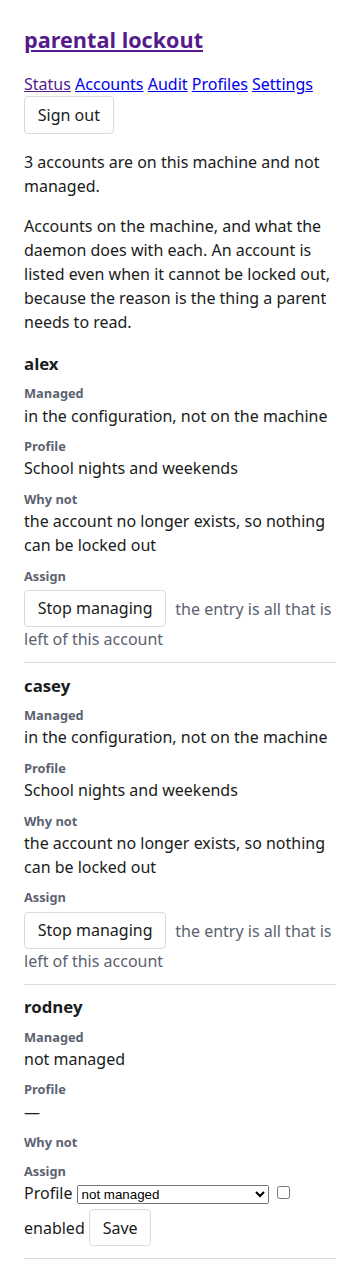
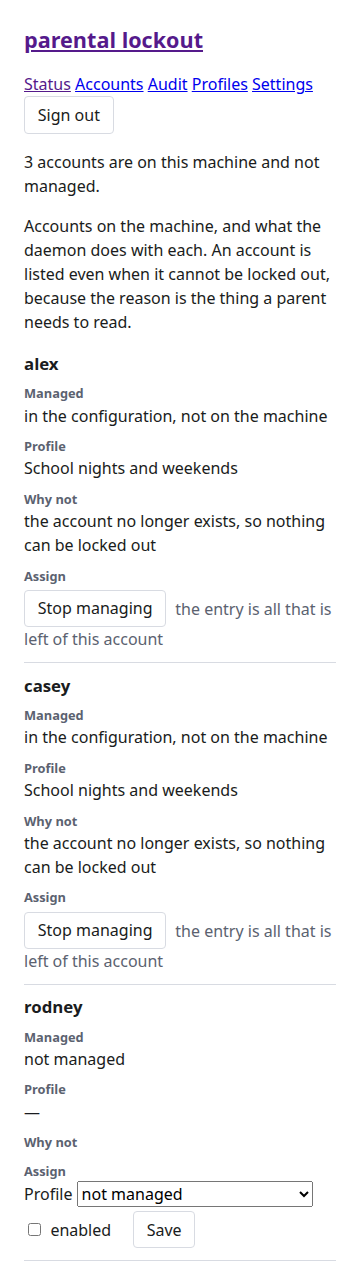
fix(web): re-photograph the nine frames against the fixed stylesheet
`manifest.py check` -- a step of `make verify` -- now refuses this tree: every page's pinned
source revision moved when the stylesheet changed. So the frames are taken again, from a tree
that already refuses the old look. That order is the point: the guard lands first (D-0013),
then the frames, so a re-record cannot certify a second defect in the same breath -- and #202
sat unnoticed inside these nine files for nine commits precisely because the frames were the
one piece of evidence nobody ever re-took.

Six frames change; `lock.png`, `testlock.png` and `users-no-profiles.png` come back
byte-identical. Nothing here claims to explain frame by frame why a page's pixels moved -- a
font change re-metrics the page around a control as well as the control -- so what is committed
with them is the per-page census, printed at both viewports on every run, which is what a reader
can check the manifest against.

README: the three refusals join the table, with the section on why the criterion is a
computed-style read and not a grep -- a `:has()` rule an engine drops leaves the page exactly as
it was, every string in the stylesheet still findable. The self-test count in that file said 29
rules; it is 43.

Decision: D-0014
Refs: #202

diff --git a/testing/capture/README.md b/testing/capture/README.md
@@ -65,12 +65,12 @@ one page needs live in `cdp.py`.
 
 | driver | refuses when |
 |---|---|
-| `pages.py` | a page answers a different URL than it was sent to; **a table page** has no table or no cells (an empty fixture fits at any width); **a form page** has no POST form or no fields (the sibling check — a `/settings` that rendered only its navigation also fits at 360 px, and dropping the check instead would have committed that as evidence it fits); any cell lacks `data-label`; **the page overflows its viewport** — measured at every width in `WIDTHS`, refused per page per viewport, and before the PNG is written; **the audit page** carries no seeded `platform.error` row, or its hardest unbreakable token is under 60 characters (#140: a page that could not have overflowed is not width evidence, and a page whose pressure came from the machine rather than the fixture is not evidence about the stylesheet) |
-| `lock.py` | the dashboard has no `lock-now` form, no submit button, no CSRF token with a value, or a method that is not `post`; the click does not navigate; the result page has no banner sentence or no session rows; a cell lacks `data-label`; a session row has no Result cell; **a row claims the lock happened while its own Result cell says otherwise** (#109); the gated clause is absent, meaning the self-session note never rendered; **the Detail cell's sentence runs into that note** (#108); the note appears in no cell at all, so the #108 rule would have examined nothing; **the click wrote no `lock.requested` line**; the page overflows |
-| `testlock.py` | the same form and click refusals for `test-lock`; the page does not say *Nothing was locked*; fewer than two tables or no backend rows; the #108 seam rule and the same empty-rule guard; **the audit trail holds anything but `lock.probed`**; the page overflows |
+| `pages.py` | a page answers a different URL than it was sent to; **a table page** has no table or no cells (an empty fixture fits at any width); **a form page** has no POST form or no fields (the sibling check — a `/settings` that rendered only its navigation also fits at 360 px, and dropping the check instead would have committed that as evidence it fits); any cell lacks `data-label`; **the page overflows its viewport** — measured at every width in `WIDTHS`, refused per page per viewport, and before the PNG is written; **the audit page** carries no seeded `platform.error` row, or its hardest unbreakable token is under 60 characters (#140: a page that could not have overflowed is not width evidence, and a page whose pressure came from the machine rather than the fixture is not evidence about the stylesheet); **a control disagrees with the page it sits on** — set in the browser's own typeface rather than the page's, sized by no `max-width` at all or by a different one from the other fields on that page, or a radio or checkbox whose label the stylesheet left inline so the box can wrap away from the words that name it (#202; every page, both viewports, before the PNG is written) |
+| `lock.py` | the dashboard has no `lock-now` form, no submit button, no CSRF token with a value, or a method that is not `post`; the click does not navigate; the result page has no banner sentence or no session rows; a cell lacks `data-label`; a session row has no Result cell; **a row claims the lock happened while its own Result cell says otherwise** (#109); the gated clause is absent, meaning the self-session note never rendered; **the Detail cell's sentence runs into that note** (#108); the note appears in no cell at all, so the #108 rule would have examined nothing; **the click wrote no `lock.requested` line**; the page overflows; the three control claims (#202), which on this page are shown exactly one control — the chrome's Sign-out button — and report it as `controls=1 typed=0 groups=0` on the transcript rather than passing in silence |
+| `testlock.py` | the same form and click refusals for `test-lock`; the page does not say *Nothing was locked*; fewer than two tables or no backend rows; the #108 seam rule and the same empty-rule guard; **the audit trail holds anything but `lock.probed`**; the page overflows; the three control claims (#202), vacuous here for the same reason — the transport radios those rules are about are on `/settings`, a `pages.py` frame |
 | all three | the daemon the fixture started is not the process still serving its port; something already answers the DevTools endpoint before the browser is launched; `--out` resolves outside the repository, names a file, or names a directory holding PNGs without `--overwrite`; an unrecognised flag |
 
-Three of those deserve explaining, because each was a hole found by attacking this code rather
+Four of those deserve explaining, because each was a hole found by attacking this code rather
 than by writing it.
 
 **The trail is an allowlist, and it counts only this run's lines.** The probe page's second claim
@@ -84,6 +84,28 @@ twice and a membership test against the whole file passes on the previous run's 
 **The overflow verdict is computed before the write.** A photograph of an overflowing page is the
 artifact the criterion refuses; writing it and then exiting 1 leaves wrong evidence on disk under
 the right filename.
+
+**The control census reads what the browser computed, because #202 was invisible to everything
+else.** Every control on every page was rendering in Arial 13.33 px beside the page's own 16 px
+system-ui, and `/settings` was sizing its fields three ways at once -- 65 px, 163 px, 185 px. No Go
+test can see that: the mutants target `.go` and `.tmpl`, and no `_test.go` renders a page. So
+`CONTROLS_JS` rides on the one measurement every driver already takes and three refusals read the
+computed style -- each visible control's font against `document.body`'s, the `max-width` of
+everything you can type into, and the `display` of every label wrapping a toggle.
+
+The last of those is the reason a grep would not have done. The stylesheet reaches a choice group
+with `:has()`, and a selector an engine has never heard of is discarded without a word: the page
+renders exactly as it did before the rule existed and every string in the file is still there to be
+found. Computed `display` is the only thing in the browser that says whether the rule applied. The
+`max-width` read has the same shape in the other direction: a field reporting `none` is sitting at
+the user-agent's own twenty characters, so a page where every field agrees on nothing is refused as
+well as a page where they disagree -- deleting the width rule entirely makes all the values match.
+
+The read passes vacuously where there is nothing to read, and says so: the verdict page and the
+probe page each carry one control, the chrome's Sign-out button, so their lines print
+`controls=1 typed=0 groups=0`. That census on the transcript is the point -- a guard that examined
+nothing must not report success silently, which is the same rule the #108 check follows when it
+prints how many Detail cells carried the note.
 
 **The daemon and the browser must be the ones the fixture started.** A port answering is not
 evidence about who is answering it. With a second `plock serve` already holding the fixture's
@@ -502,8 +524,8 @@ with a fake that reports `innerWidth=360` at a 1024 px request.
 
 ## The self-test, because nothing else in this repository can read these files
 
-`./pages.py --self-test` runs 29 rules about what a refusal does. It starts no browser, spawns no
-daemon, writes no file, and costs **0.036 s** for its twenty-nine rules, so `make verify` runs it
+`./pages.py --self-test` runs 43 rules about what a refusal does. It starts no browser, spawns no
+daemon, writes no file, and costs **0.03 s** for all of them, so `make verify` runs it
 beside the two mutation
 self-tests. What it cannot do is reach below its own fakes — see the two body guttings above, which
 only a real capture sees.

diff --git a/DECISIONS.md b/DECISIONS.md
@@ -109,3 +109,36 @@ kept; nothing here renumbers anything.
   `require_choice_groups`, `census_line`), testing/capture/pages.py (the splice, the three calls, the
   transcript, seven self-test rules), testing/capture/lock.py, testing/capture/testlock.py,
   internal/web/narrow_width_test.go, DECISIONS.md
+
+## D-0014 · The nine frames are re-photographed in the commit that changes what they show
+
+- Question: the stylesheet fix changes what six of the nine committed 360 px frames depict, and
+  `manifest.py check` -- a step of `make verify` -- now refuses the tree because every page's pinned
+  source revision moved. Does this branch ship the stylesheet with the old evidence under it, or
+  re-photograph the artifacts?
+- Options: re-record all nine here and commit the new bytes beside the rule that refuses the old ones
+  | ship the stylesheet alone and leave the frames for a later unit | re-record only the six whose
+  pixels moved and leave the other three pinned to their old sources
+- Chose: re-record all nine here and commit the new bytes beside the rule that refuses the old ones
+- Why: the third option is not a state the gate can hold -- `check` walks every entry and every
+  page's sources have moved, so a half-recorded manifest is a refusal, not a shortcut, and a manifest
+  that certifies two different stylesheets under one `captured_at` records nothing. The second is the
+  state this repository spent three issues escaping: D-0010 measured that the nine committed frames
+  did not reproduce, and the reason #202 stayed open for nine commits is that the only artifacts which
+  could show the wrong font were the ones nobody re-photographs. What the first option costs, stated
+  rather than glossed: nine committed bytes are invalidated as a side effect of a CSS change, and the
+  frames are the very evidence that failed to catch the defect -- so the same act that makes the
+  criterion's evidence agree with the fix is also the act that would have hidden a second defect in
+  the same commit, which is why the guard landed first (D-0013) and the frames were taken from a tree
+  that already refused the old look. Two more things the record owes: `head` in the new manifest names
+  the checkpoint commit rather than the commit carrying the frames, because a capture cannot pin its
+  own commit -- already true of every manifest on main; and three of the nine come back byte-identical
+  (`lock.png`, `testlock.png`, `users-no-profiles.png`). This entry does not explain, frame by frame,
+  why a given page's pixels moved: a font change re-metrics the page around a control as well as the
+  control, so the mapping from the census to the bytes is not one-to-one, and inventing a reason per
+  frame would be worse than leaving it open. What is on the record is the census, printed per page per
+  viewport, which is what a reader can check the manifest against.
+- Checkpoint: 8b33c5045f2af647d30b0c07f53a6f3d9d72ee1b
+- Effect: docs/screenshots/360/ (six PNGs re-taken, two unchanged, manifest.json),
+  testing/capture/README.md (the three refusals in the table, the census section, the rule count),
+  DECISIONS.md
